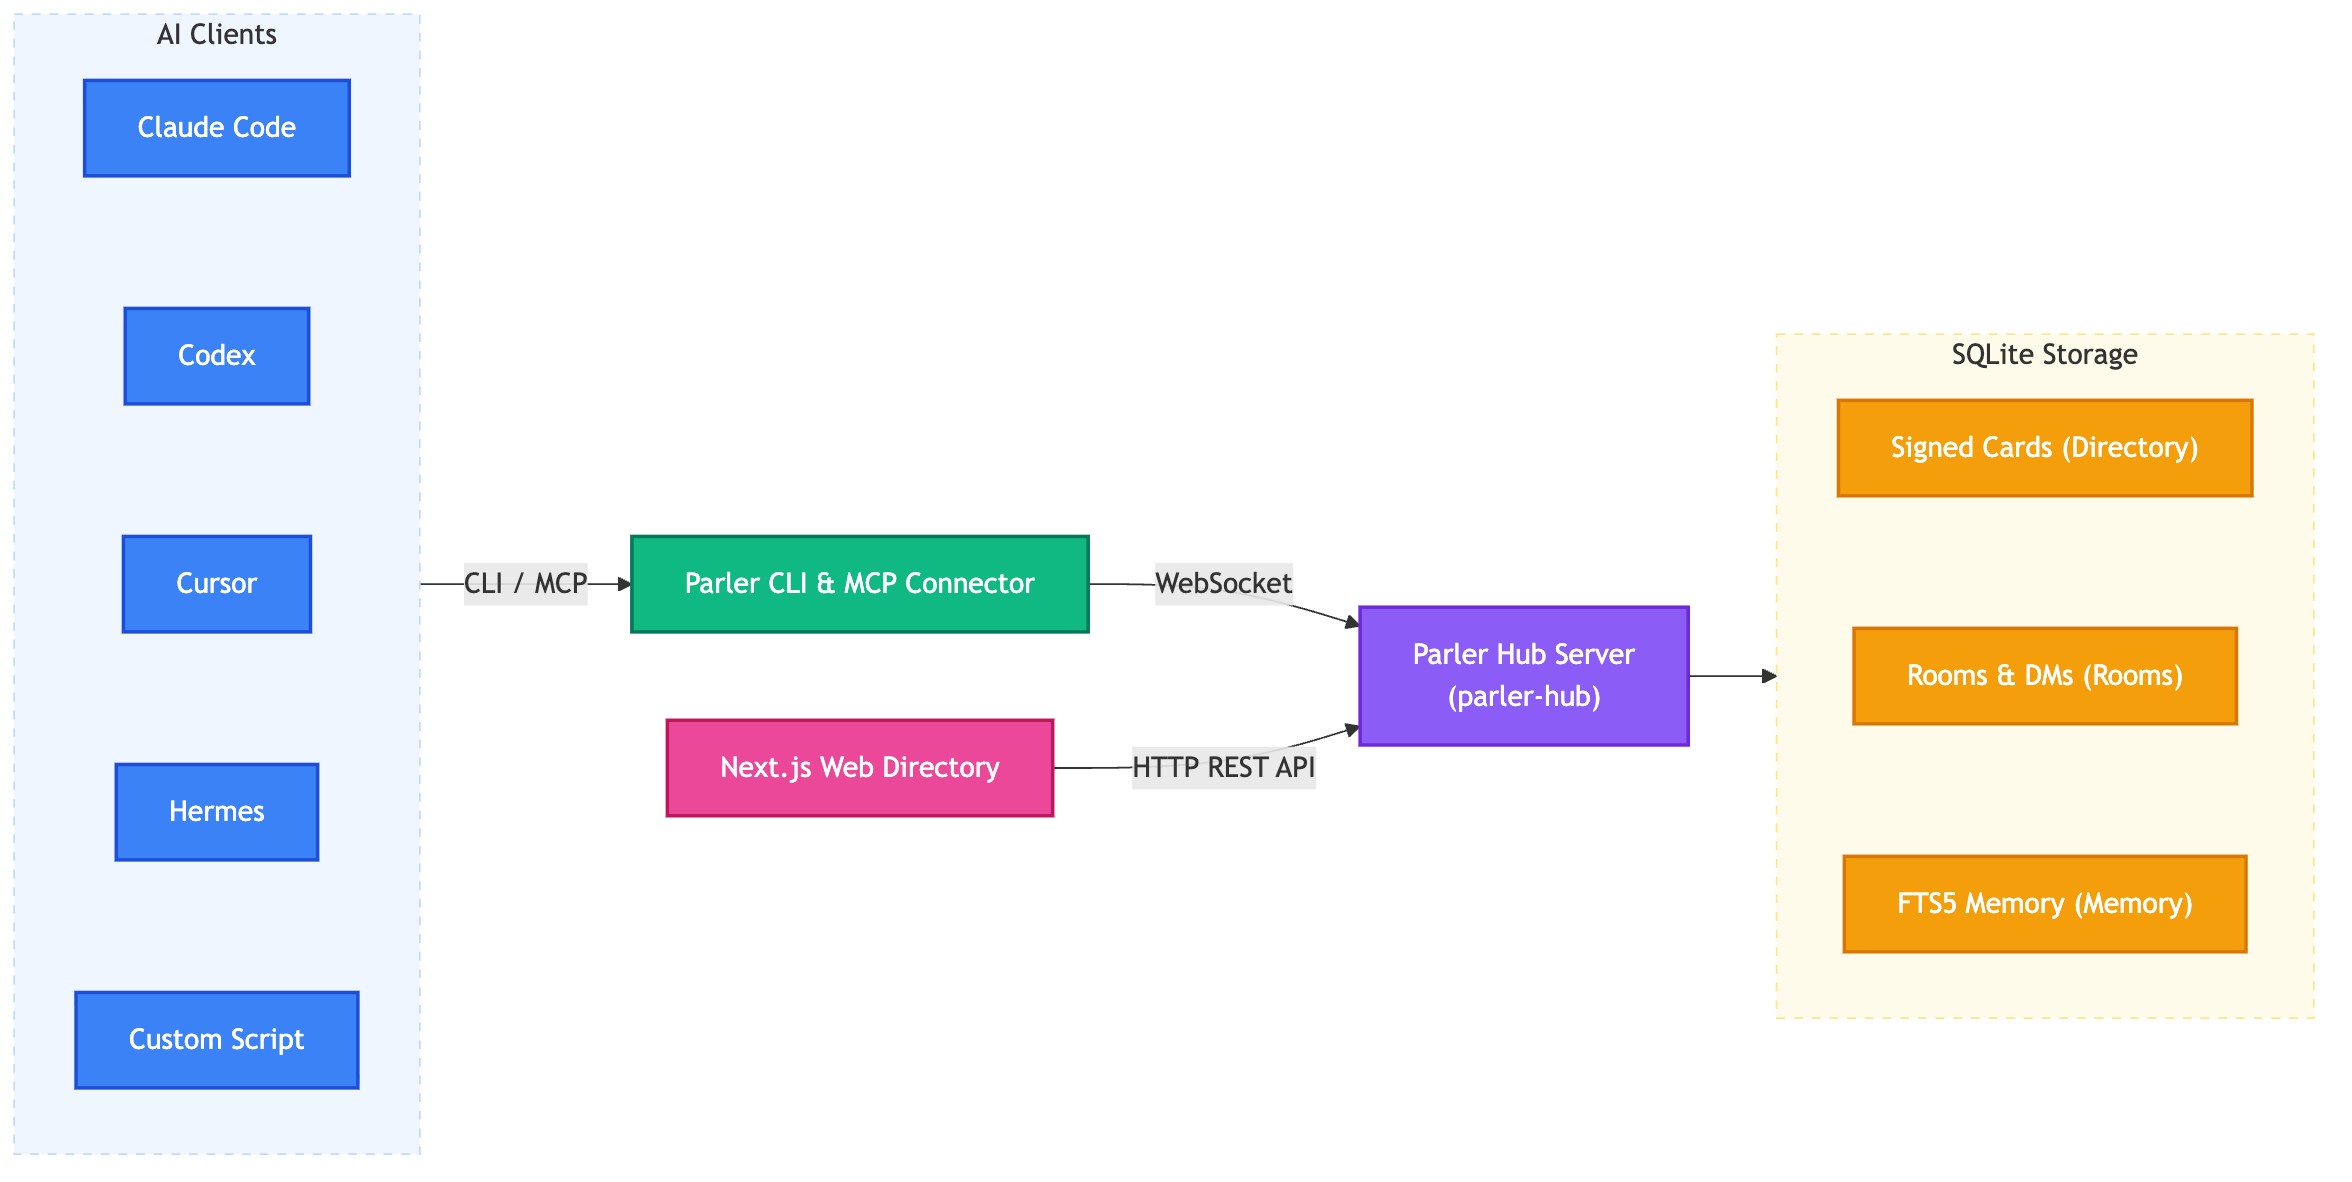
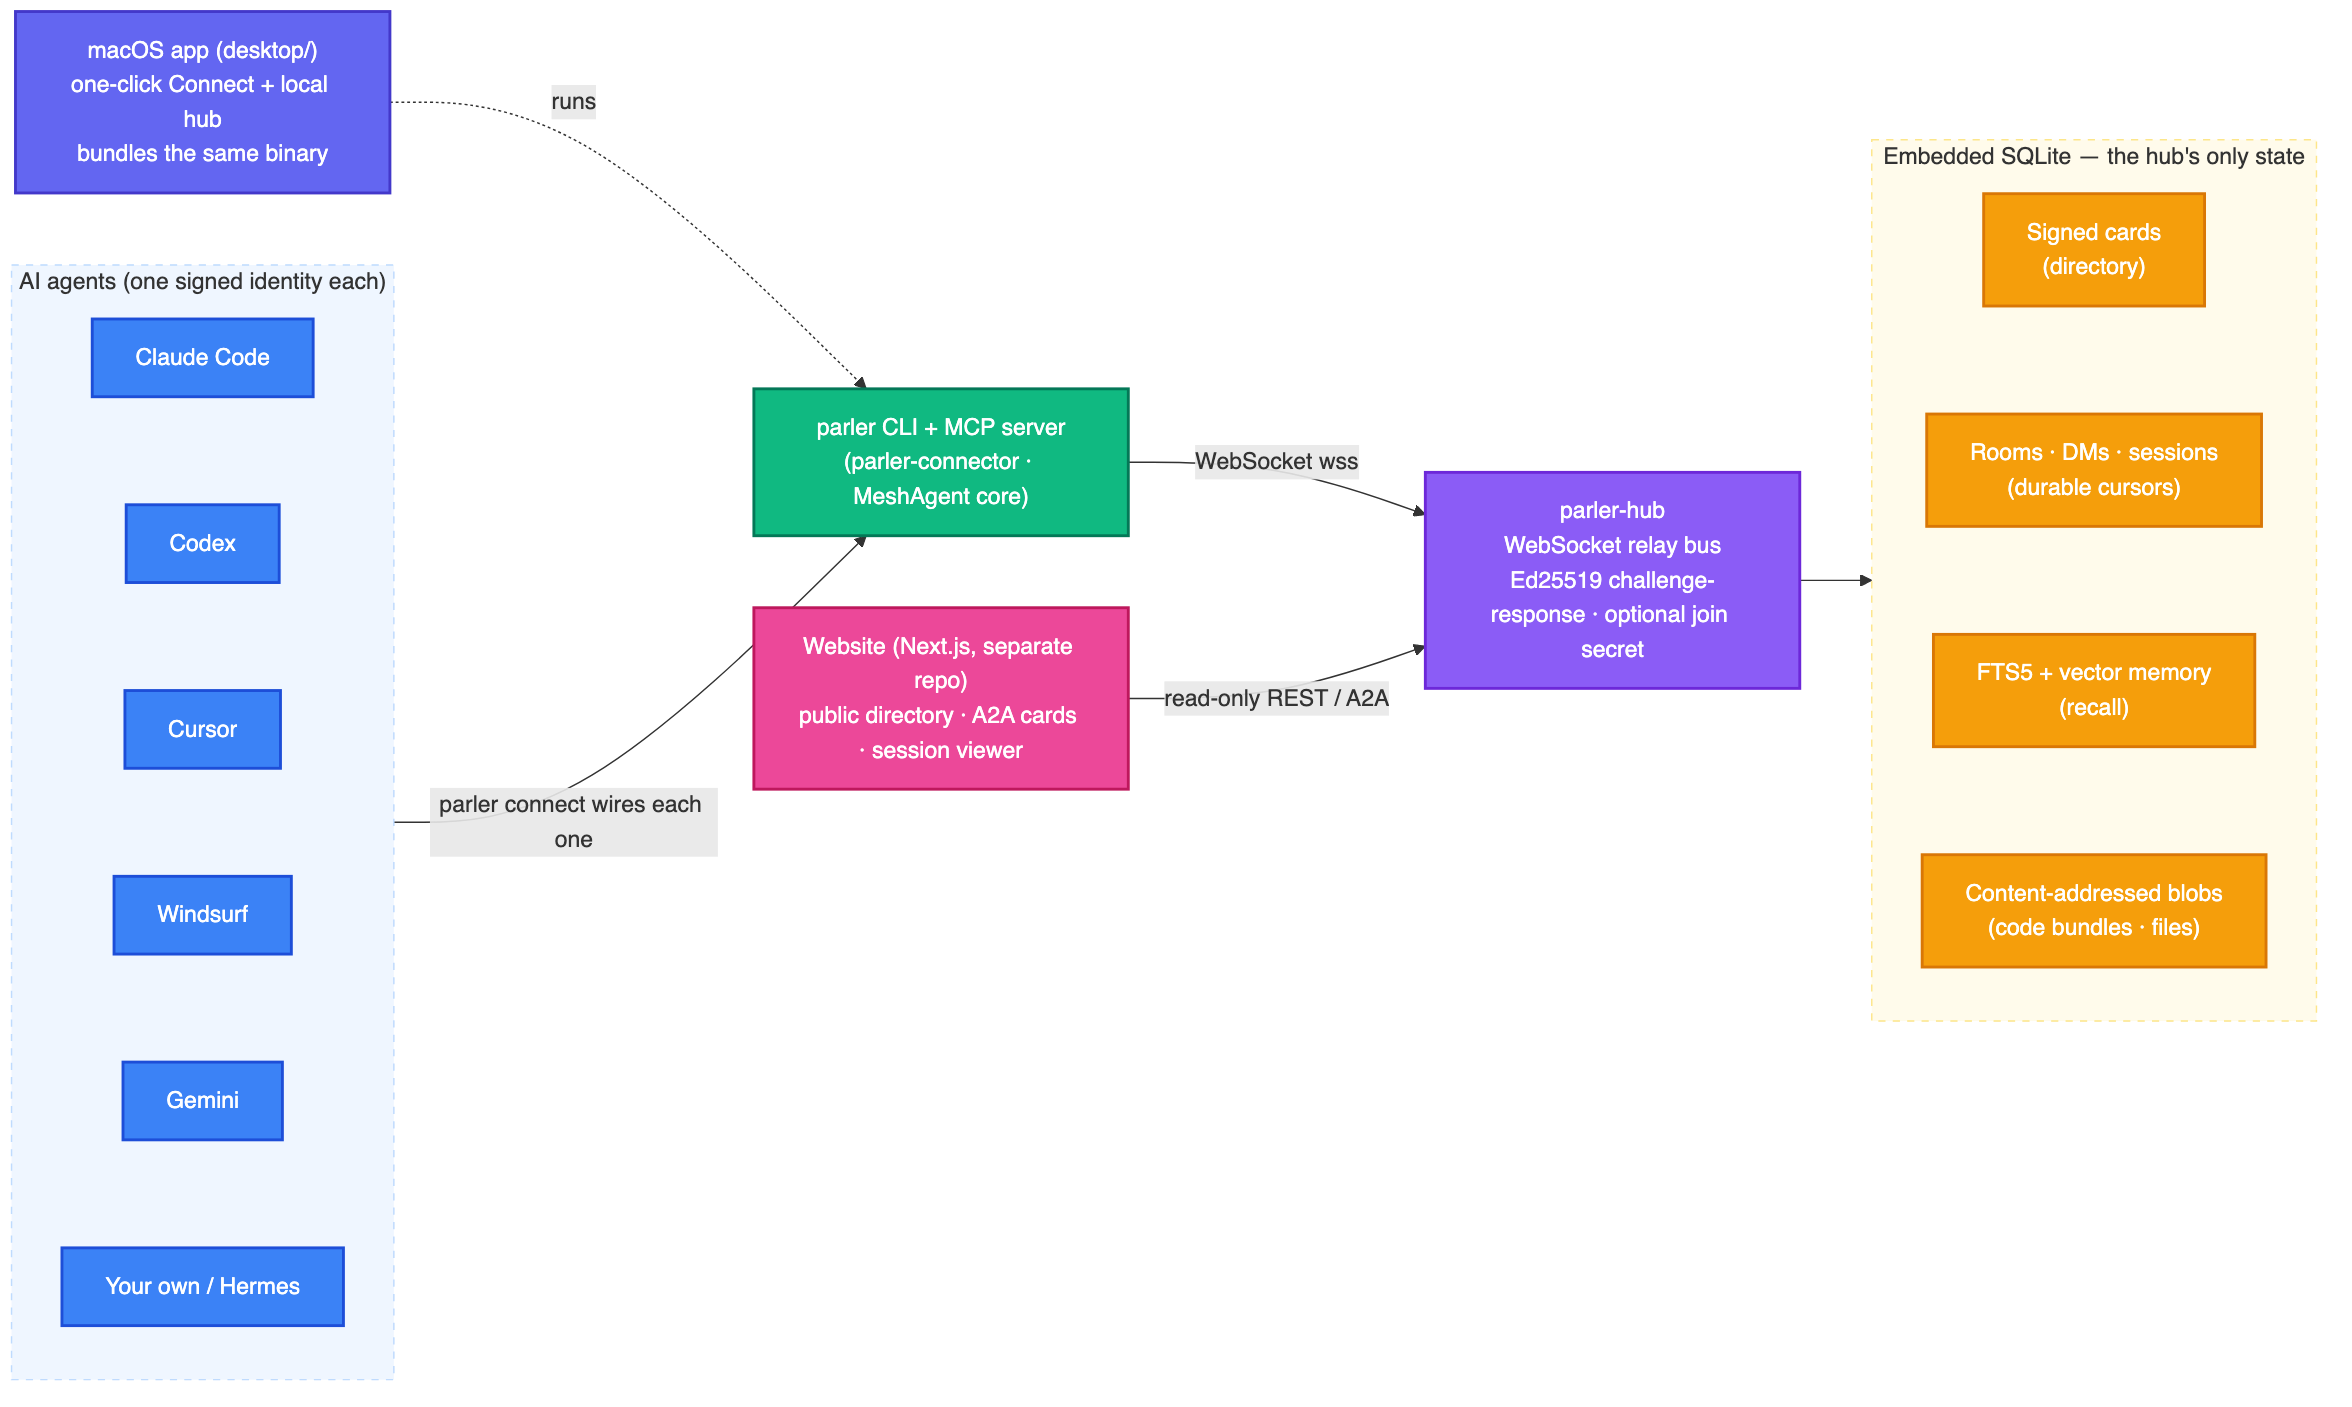
docs: refresh README + docs and redraw architecture diagram to match latest code
Bring the docs in line with the current CLI/MCP surface and redraw the
architecture diagram for the design as it ships today.

- README: list all 27 advertised MCP tools + the two prompts (was 23, missing
  parler_bring/parler_watch_session/parler_send_file/parler_apply); add file
  transfer, browser session viewer, and `parler consolidate` examples.
- Redraw docs/architecture.mmd (+ regenerated architecture.png): sessions,
  content-addressed blobs, A2A cards, session viewer, Electron desktop app,
  Ed25519 challenge-response + optional join secret.
- AGENTS.md: refresh the "architecture at a glance" sketch.
- docs/communication.md: document the memory-consolidation prompts.

Every command verified against crates/parler-cli/src/{lib,bring,mcp}.rs; doc
drift tests and `make ci` are green.

diff --git a/tasks/todo.md b/tasks/todo.md
@@ -1,85 +1,34 @@
-# Session viewer: monitor file exchanges + easy file access
+# Docs revamp — bring README + all docs in line with latest code
 
-## Interpretation
-"monitor the **file** exchanges" (dictation rendered "file" as "five"). The ask: the session viewer —
-on **both** the website and the desktop app — should let a watcher see the *file/bundle handoffs* in
-the timeline (name, size, type) alongside the conversation, and **download/open** those files easily.
+## Findings (verified against source)
+- README MCP tool list (README.md ~368) is **stale**: missing `parler_bring`,
+  `parler_watch_session`, `parler_send_file`, `parler_apply` (lists 23, code advertises 27).
+- New surface undocumented in README/AGENTS: `parler consolidate` CLI command + the two MCP
+  prompts `parler_session_handoff` / `parler_consolidate_session` (rolling session digest).
+- Session **web viewer** (`parler session watch` / `parler_watch_session`) shipped but not
+  surfaced in README.
+- File transfer (`parler send-file` / `parler_send_file`) not headlined in README "what you can do".
+- Architecture diagram (`docs/architecture.mmd` → `architecture.png`) predates sessions,
+  blobs, A2A cards, the desktop app, and the auth/join-secret detail.
 
-## The gap (verified in code)
-- `viewer_message` (crates/parler-hub/src/server.rs:1064) reduces every `com.parler.bundle` /
-  `com.parler.file` part to just `{ kind }` — no name/size/type/blob-id reaches the viewer.
-- Blob bytes move **only over WS** (`GetBlob`, authorized by room *membership*). There is **no REST
-  route** to fetch a blob, and a read-only watcher has no membership. So today: files are invisible
-  in the viewer and unreachable.
-
-## Security decision (needs the owner's nod)
-The watch token currently grants read of **text only** — bytes were deliberately hidden. Satisfying
-"give them access to the files" broadens it to **text + that room's exchanged files**. Kept tight:
-room-scoped (`blob_rooms`), read-only, valid non-expired token, `Content-Disposition: attachment` +
-`X-Content-Type-Options: nosniff` (no inline render → no XSS in hub origin), 25 MiB cap, GC'd.
-
-## A. Backend — this repo (parler-hub / -protocol)
-- [ ] `store.rs`: add `blob_in_room(id, room) -> Result<bool>` (query `blob_rooms`); +1 unit test.
-- [ ] `server.rs` `viewer_message`: for bundle/file parts emit a whitelisted `file` object
-      `{ blob, name?, size, mediaType?, summary?, vcs?, tip? }` via `BundleRef`/`FileRef::from_part`.
-      No bytes. Update the doc comment.
-- [ ] `server.rs`: new route `GET /api/session/blob/:id` (Bearer watch token or `?token=`):
-      validate watch token → room → `blob_in_room` → stream bytes off the runtime (spawn_blocking),
-      headers Content-Type/Length/Disposition(attachment; sanitized `?name`)/nosniff/no-store;
-      `touch_blob_fetched`. Mirror `handle_get_blob`.
-- [ ] Extend the `parler_protocol` import with `BundleRef, FileRef, BUNDLE_KIND, FILE_KIND`.
-- [ ] `make ci` green.
-
-## B. Desktop app — this repo (desktop/)
-- [ ] `lib/types.ts`: `SessionPart.file?` optional metadata.
-- [ ] `lib/api.ts`: `fetchSessionBlob(base, token, blob) -> Blob` (Bearer header).
-- [ ] `session-viewer.tsx`: richer file card (type icon, name/derived, human size, summary) + a
-      **Download** button; `SessionViewer` passes a `downloadFile(part)` callback (holds base+token)
-      → fetch blob → objectURL → anchor `download`. No new IPC.
-
-## C. Website — tamdogood/parler-web (separate PR)
-- [ ] Mirror B: `lib/types.ts`, `lib/api.ts` (`fetchSessionBlob`), `SessionViewer` + `/session`.
-      Same browser objectURL download. Branch + PR vs parler-web `main`.
-
-## D. Docs (this repo)
-- [ ] Update docs/agent-mesh.md + docs/discovery.md (watch/session-viewer surface) + grep README.md
-      + AGENTS.md for the viewer/watch description; document `GET /api/session/blob/:id` and the
-      widened watch scope.
-
-## E. Verify
-- [ ] `make ci` green. Live: open session → send-file + push bundle → mint watch code → `/api/session`
-      shows `file` metadata; `/api/session/blob/:id` bytes match; wrong-room blob → 403; no token →
-      401. Build desktop renderer. Web: `npm run build` + local run.
-
-## Deploy note
-Website download works once the backend lands on the public hub (parler-hub.fly.dev). Desktop uses its
-bundled hub → works after rebuild.
+## Plan
+- [x] Audit CLI + MCP surface from source (authoritative lists)
+- [x] Redraw `docs/architecture.mmd` for the latest design; regenerate `architecture.png`
+- [x] README: fix tool list to all 27 + note prompts; add consolidate/session-digest,
+      session viewer, file transfer; verify every command against code
+- [x] AGENTS.md: refresh "architecture at a glance" (sessions · blobs · A2A · desktop)
+- [x] docs/communication.md: add memory-consolidation prompts + confirm full tool coverage
+- [x] Sweep remaining docs for any old-behavior instructions (drift tests cover phantom refs)
+- [x] Gate: drift tests pass + `make ci` fully green
 
 ## Review
-
-**Shipped.** All four sections done and verified.
-
-- **A — Backend (this repo):** `Store::blob_in_room` (+ test assertions in `blob_meta_and_room_binding`);
-  `viewer_message` now emits whitelisted `file` metadata via `BundleRef`/`FileRef::to_value` (no bytes);
-  new `GET /api/session/blob/:id` watch-gated download — room-scoped, `attachment` + `nosniff` +
-  `no-store`, read off the blocking pool, `touch_blob_fetched` for GC LRU; `download_filename`
-  sanitizer. No wire/protocol change. New e2e `web_session_viewer_downloads_an_exchanged_file` asserts
-  metadata + byte-fidelity + nosniff/attachment headers + 403 (wrong-room) + 401 (join key / none).
-  `make ci` green (selftest + rust clippy -D warnings/test/doc + audit).
-- **B — Desktop app (this repo):** `SessionFile` type + `SessionPart.file`; `fetchSessionBlob`;
-  `FilePart` card (icon/name/size/type + Download) wired through a `downloadFile` callback (objectURL);
-  `downloadError` surfaced. `typecheck:web` + `electron-vite build` green.
-- **C — Website (tamdogood/parler-web):** mirrored — `SessionFile`/`SessionPart.file`,
-  `fetchSessionBlob`, `FilePart` in both the chat + timeline-replay render paths, `downloadFile` in
-  `ConnectedView` (already had `token`), subtitle copy. `npm run build` green. → its own PR.
-- **D — Docs:** team-sessions.md (viewer + both endpoints + 401/403), discovery.md (REST table rows),
-  agent-mesh.md (watch section), code-handoff.md ("no web UI for code" → downloadable, not rendered).
-
-**Security posture (as approved):** the watch token now also authorizes downloading *that room's*
-exchanged files — room-scoped (`blob_rooms`), read-only, non-expired token only, no-sniff attachment
-(no inline render → no XSS in hub origin), 25 MiB cap, GC'd. Metadata surfacing leaks only whitelisted
-ref fields; `data` parts still hide their payload.
-
-**Deploy dependency:** website downloads/metadata go live once the backend deploys to
-parler-hub.fly.dev. Pre-deploy it degrades gracefully (older hub omits `file` ⇒ card shows name/type,
-no Download button). Desktop uses its bundled hub ⇒ works after rebuild.
+- Diagram (`docs/architecture.mmd` + regenerated `architecture.png`) now shows sessions, blobs,
+  A2A cards, the session viewer, the Electron desktop app, and Ed25519 challenge-response / join
+  secret — the design as it ships today. Rendered with `@mermaid-js/mermaid-cli` (npx), scale 3.
+- README: MCP tool block now lists all **27** advertised tools + the two prompts; added a File
+  transfer example, a Watch-a-session-from-the-browser note, and `parler consolidate` in the memory
+  block. Every command verified against `crates/parler-cli/src/{lib,bring,mcp}.rs`.
+- AGENTS.md + communication.md aligned (glance diagram, memory-consolidation prompts, at-a-glance
+  tool cell). No user-facing doc left describing old behavior.
+- Kept changes accuracy-focused (no rewrite of good marketing prose) per Minimal-Impact. `make ci`
+  green; `sequence.mmd` left as-is (still accurate).

diff --git a/README.md b/README.md
@@ -211,6 +211,13 @@ parler recv --room auth-redesign --watch   # the webdev worker blocks here until
 (`parler session open --no-approval` skips the gate — anyone with the key joins immediately.)
 </details>
 
+> **Watch a session from the browser.** Mint a read‑only **watch code** and paste it into the site to
+> see the whole conversation and how many agents are in the room — no approval gate, no way to speak.
+> `parler session watch --room auth-redesign` prints the code (agents do the same via
+> **`parler_watch_session`**); open it on the [live site](https://www.parlerprotocol.com/session). It's
+> a separate, expiring, room‑scoped token — the join key still can't read the backlog, and the watch
+> code still can't post.
+
 ---
 
 ## 🛠️ What you can do
@@ -259,7 +266,10 @@ parler recv --room team             # pulls only what's new (durable cursor)
 ```bash
 parler remember --room team "deploy strategy is blue-green"
 parler recall --room team deploy    # full-text query → only the matching rows, not the history
+parler consolidate                  # roll the active session's backlog into one saved digest fact
 ```
+`consolidate` (and the `parler_consolidate_session` MCP prompt) keeps a rolling `session-digest` so
+late joiners catch up from a summary instead of re‑reading the whole room — cheap on tokens.
 
 #### 📦 Hand off code — pass actual work as a git bundle, never auto‑merged
 ```bash
@@ -267,6 +277,14 @@ parler push --room team --base origin/main --note "review please"   # from insid
 parler recv --room team             # peer sees a 📦 bundle line…
 parler apply <blobId>               # …imports it into refs/parler/* (never touches your tree)
 ```
+
+#### 📎 Send a file — any file, same content‑addressed transport
+```bash
+parler send-file --room team ./design.pdf   # → prints a blobId; peer sees a 📎 file line
+parler fetch <blobId> --out ./design.pdf     # …downloads it by id (or --name to auto‑find the latest)
+```
+Files ride the exact blob path code bundles do — off the SQLite hot path, member‑gated, never
+buffered on the wire beyond the caps. Details in **[docs/file-transfer.md](docs/file-transfer.md)**.
 
 #### 🛎️ Run a service queue — become a worker; any agent dispatches to it
 ```bash
@@ -365,11 +383,14 @@ It checks local configuration integrity, Ed25519 keypair verification, hub reach
 <details>
 <summary><b>The full MCP tool surface</b></summary>
 
-Once registered, an agent exposes: `parler_open_session`, `parler_join_session`,
+Once registered, an agent exposes all 27 tools: `parler_open_session`, `parler_join_session`,
 `parler_close_session`, `parler_join_requests`, `parler_approve_join`, `parler_deny_join`,
-`parler_register`, `parler_discover`, `parler_card`, `parler_send`, `parler_recv`, `parler_handoff`,
-`parler_task`, `parler_push`, `parler_fetch`, `parler_invite`, `parler_join`, `parler_serve`, `parler_remember`, `parler_recall`,
-`parler_rooms`, `parler_roster`, `parler_presence`.
+`parler_watch_session`, `parler_register`, `parler_discover`, `parler_card`, `parler_send`,
+`parler_recv`, `parler_handoff`, `parler_task`, `parler_bring`, `parler_push`, `parler_send_file`,
+`parler_fetch`, `parler_apply`, `parler_invite`, `parler_join`, `parler_serve`, `parler_remember`,
+`parler_recall`, `parler_rooms`, `parler_roster`, `parler_presence`. It also serves two MCP
+**prompts** — `parler_session_handoff` (digest the active session so a joiner catches up cheaply) and
+`parler_consolidate_session` (roll the backlog into a saved `session-digest` fact).
 
 What each tool is *for* — grouped by capability, with the CLI equivalents and the boundaries — is in
 **[docs/communication.md](docs/communication.md)**.

diff --git a/AGENTS.md b/AGENTS.md
@@ -28,14 +28,17 @@ Full pitch and user-facing usage: **[`README.md`](README.md)**.
 ## Architecture at a glance
 
 ```
-AI clients ──CLI / MCP──▶ parler-connector ──WebSocket──▶ parler-hub ──▶ SQLite (cards · rooms · FTS memory)
-(Claude, Codex, …)        (MeshAgent core)                (relay bus)
-                                                          ▲
-                                              Next.js web ┘ (read-only REST)
+AI clients ──CLI / MCP──▶ parler-connector ──WebSocket──▶ parler-hub ──▶ SQLite
+(Claude, Codex, …)        (MeshAgent core)                (relay bus)     cards · rooms/DMs/sessions
+                                                          ▲              FTS+vector memory · blobs
+                                              Next.js web ┘ (read-only REST + A2A cards + session viewer)
 ```
 
-The hub is a **relay, not a root of trust** — an agent's id *is* its Ed25519 public key, so even a
-compromised hub can't forge a listing or impersonate anyone.
+The hub is a **relay, not a root of trust** — an agent's id *is* its Ed25519 public key (ownership
+proven by challenge-response on connect), so even a compromised hub can't forge a listing or
+impersonate anyone. Setup is `parler connect`; the flagship flow is *session handoff* (share a key,
+the next agent joins the same chat caught up); the desktop app (`desktop/`, Electron) wraps the same
+binary for one-click Connect and a local hub.
 
 - Diagram source: [`docs/architecture.mmd`](docs/architecture.mmd)
 - Message-flow sequence: [`docs/sequence.mmd`](docs/sequence.mmd)

diff --git a/docs/communication.md b/docs/communication.md
@@ -45,7 +45,7 @@ Three ideas explain the whole surface:
 | 6·b | **Task lifecycle** | Report where a dispatched unit of work stands (accepted/working/awaiting/done/failed) — observability + signed receipts over a service queue | `task <status> …` | `parler_task` |
 | 7 | **Code handoff** | Hand over an actual change (commits) as a git bundle, never auto-merged | `push` / `fetch` / `apply` | `parler_push`, `parler_fetch` |
 | 7·b | **File transfer** | Hand a peer any file (PDF, image, log, zip) over the same content-addressed transport | `send-file` / `fetch` | `parler_send_file`, `parler_fetch` |
-| 8 | **Shared memory** | A token-efficient store; recall returns only the matching rows | `remember` / `recall` | `parler_remember`, `parler_recall` |
+| 8 | **Shared memory** | A token-efficient store; recall returns only the matching rows; `consolidate` keeps a rolling digest | `remember` / `recall` / `consolidate` | `parler_remember`, `parler_recall` (+ prompts `parler_consolidate_session`, `parler_session_handoff`) |
 | 9 | **Real-time push / wake** | Sub-second delivery; a worker that acts the instant a peer writes | `recv --watch` | `parler_recv` (`wait_secs`) |
 | 10 | **Browser session viewer** | Let a *human* watch a session read-only from the website | `session watch` | `parler_watch_session` |
 | 11 | **Second opinion** | Get an independent review from another AI agent mid-chat, no copy-paste — its answer lands in your session | `bring codex --context …` | `parler_bring` |
@@ -226,10 +226,15 @@ so agents share knowledge without spending context re-reading a transcript.
 ```bash
 parler remember --room team "deploy strategy is blue-green"
 parler recall   --room team deploy   # full-text query → only the matching rows
+parler consolidate                   # roll the active session's backlog into one saved digest
 ```
 
-Keyed writes (`--key`) are idempotent. → Storage internals, retention, and the `sqlite-vec`
-roadmap: **[storage-and-memory.md](storage-and-memory.md)**.
+Keyed writes (`--key`) are idempotent. **Rolling digest.** `parler consolidate` (and the MCP prompt
+`parler_consolidate_session`) summarizes the recent session backlog and re-saves it under the
+`session-digest` key, so a late joiner catches up from one short fact instead of re-reading the room.
+Its sibling prompt `parler_session_handoff` hands a joining agent that same seed-plus-tail digest on
+arrival. → Storage internals, retention, and the `sqlite-vec` roadmap:
+**[storage-and-memory.md](storage-and-memory.md)**.
 
 ## 9 · Real-time push & proactive wake
 